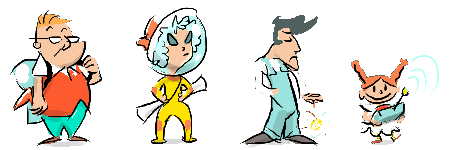
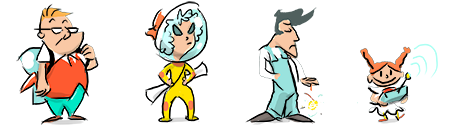
higher fidelity graphics for activity and people pages

diff --git a/app/views/Activity/activity.html b/app/views/Activity/activity.html
@@ -2,7 +2,7 @@
 #{set title:'Sparkmuse, a community to discuss, refine, and act on innovative tech ideas.' /}
 #{set nav:'ACTIVITY' /}
 
-<link rel="stylesheet" href="@{'/public/stylesheets/Activity/activity.css'}" type="text/css" />
+<link rel="stylesheet" href="@{'/public/stylesheets/Activity/activity-2.css'}" type="text/css" />
 
 <div class="page-title prepend-1 span-22 append-1 first last">
 

diff --git a/app/views/People/people.html b/app/views/People/people.html
@@ -2,7 +2,7 @@
 #{set title:'Sparkmuse, a community to discuss, refine, and act on innovative tech ideas.' /}
 #{set nav:'PEOPLE' /}
 
-<link rel="stylesheet" href="@{'/public/stylesheets/People/people-3.css'}" type="text/css" />
+<link rel="stylesheet" href="@{'/public/stylesheets/People/people-4.css'}" type="text/css" />
 
 <div class="page-title prepend-1 span-22 append-1 first last">
 

diff --git a/public/stylesheets/People/people-4.css b/public/stylesheets/People/people-4.css
@@ -36,8 +36,8 @@ $FONT_FAMILY_STANDARD: Georgia, "Times New Roman", Times, serif;
 .title-bar {
   margin-bottom: 0.5em;
   border-bottom: 1px dotted rgba(0,0,0,0.2);
-  background: url("../../images/people-line.png") 475px 0px no-repeat;
-  padding-top: 65px;
+  background: url("../../images/people-line.png") 475px 10px no-repeat;
+  padding-top: 55px;
 }
 
 table.users {

diff --git a/public/stylesheets/Activity/activity-2.css b/public/stylesheets/Activity/activity-2.css
@@ -36,8 +36,8 @@ $FONT_FAMILY_STANDARD: Georgia, "Times New Roman", Times, serif;
 .title-bar {
   margin-bottom: 0.5em;
   border-bottom: 1px dotted rgba(0,0,0,0.2);
-  background: url("../../images/truck-line.png") 420px 20px no-repeat;
-  padding-top: 65px;
+  background: url("../../images/truck-line.png") 420px 10px no-repeat;
+  padding-top: 55px;
 }
 
 .activity {
